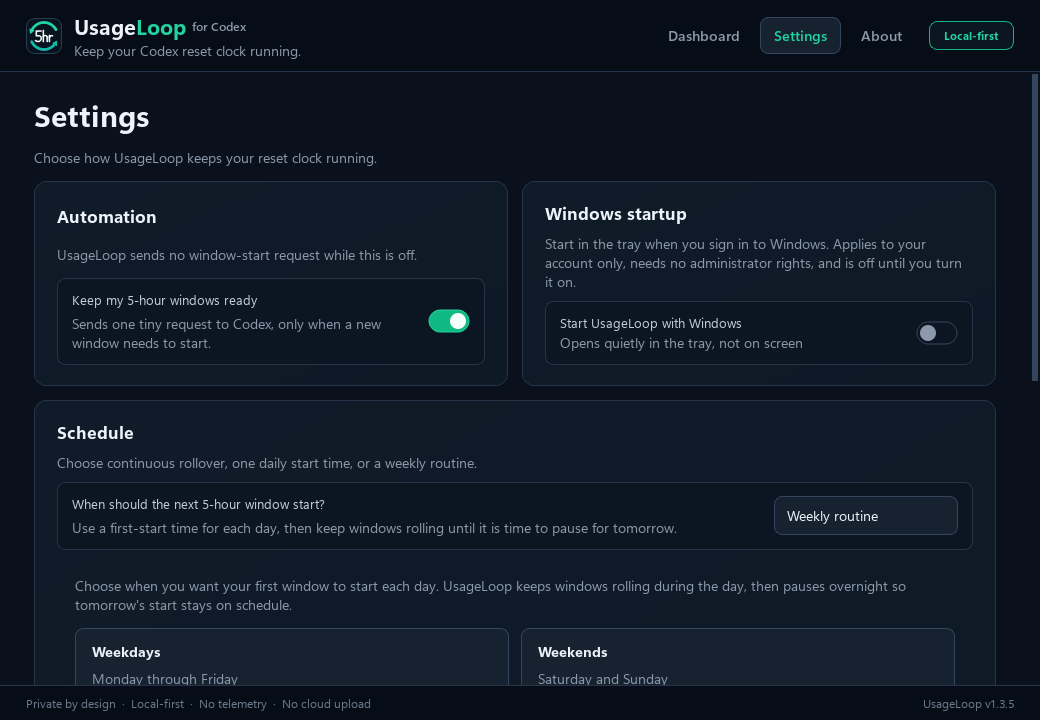
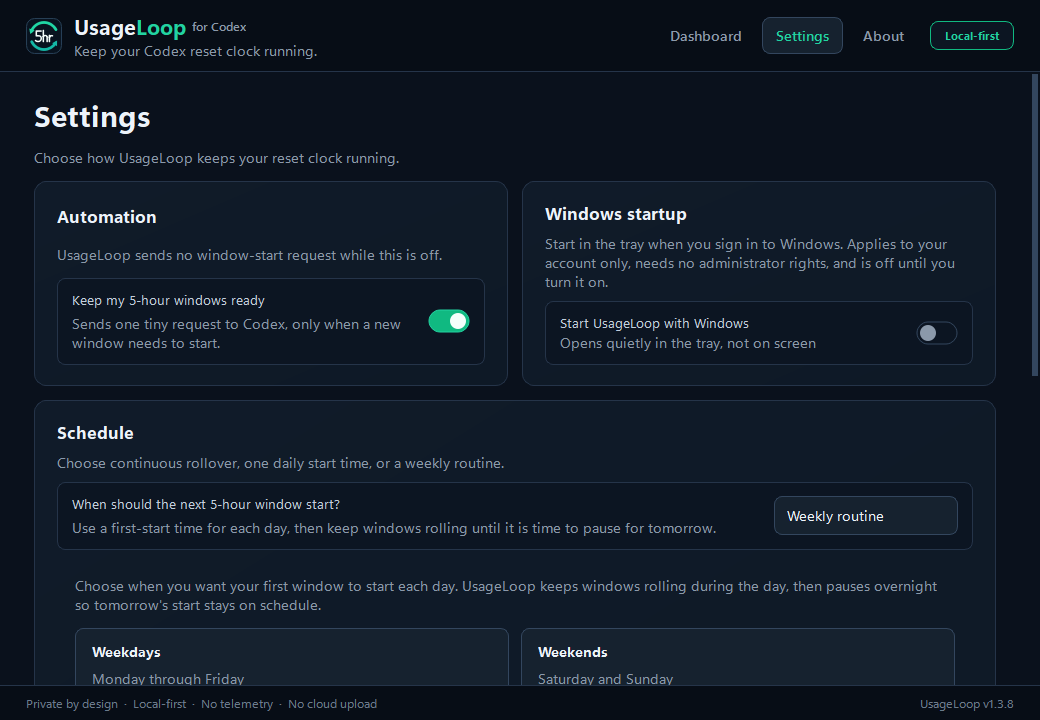
Clarify UsageLoop first-run and next-action presentation for 1.3.8

diff --git a/src/sentinel/presentation.py b/src/sentinel/presentation.py
@@ -48,6 +48,13 @@ def operational_presentation(
                     "Resumes " + _absolute_time(settings.automation_paused_until),
                     tray="Paused until " + _absolute_time(settings.automation_paused_until))
     if state is None:
+        if not settings.automation_enabled and not settings.first_run_complete:
+            return make("first_run", "Set up your routine",
+                        "Choose when your day starts in Settings, then turn on Automation. Nothing is sent to Codex until you do.",
+                        "info", "GET STARTED", "No clock running yet",
+                        "Choose a start time, then turn on Automation.",
+                        "Choose your start time in Settings, then turn on Automation",
+                        tray="Set up your routine")
         return make("first_run", "Waiting for Codex status",
                     "UsageLoop has not checked Codex yet.", "info", "NOT CHECKED",
                     "No reset clock verified yet", "Sync usage to read the current window.",
@@ -64,6 +71,17 @@ def operational_presentation(
                     "info", "CHECKING CONNECTION", "Checking Codex",
                     "Compatibility is being checked without sending a turn.",
                     "Wait for the read-only check.", tray="Checking Codex")
+    if (not settings.automation_enabled and not settings.first_run_complete
+            and state.provider_id not in settings.checked_runtime_identities
+            and state.usage_checked_at is None and state.last_verified_at is None
+            and state.reset_at is None
+            and state.status != "Needs attention"):
+        return make("first_run", "Set up your routine",
+                    "Choose when your day starts in Settings, then turn on Automation. Nothing is sent to Codex until you do.",
+                    "info", "GET STARTED", "No clock running yet",
+                    "Choose a start time, then turn on Automation.",
+                    "Choose your start time in Settings, then turn on Automation",
+                    tray="Set up your routine")
     if (state.compatibility_next_retry_at is None and
             (state.status == "Needs attention" or not state.automation_supported
              or (settings.checked_runtime_identities.get(state.provider_id) == state.runtime_identity
@@ -126,18 +144,21 @@ def operational_presentation(
                     "warning", "NEEDS ATTENTION", "Usage unclear",
                     "Sync usage to read the current state.",
                     "Start blocked until quota evidence is clear.", tray="Needs attention")
-    if state.reset_at is not None and state.reset_at > now and (state.quota_state == "ANCHORED" or state.status == "Ready"):
+    if (state.reset_at is not None and state.reset_at > now
+            and state.quota_state != "UNANCHORED"
+            and (state.quota_state == "ANCHORED" or state.status == "Ready")):
         return make("active_window", "Everything is set",
                     "The countdown runs locally. UsageLoop follows your saved schedule after this window ends.",
                     "success", "CLOCK RUNNING", format_countdown(state.reset_at, now),
                     "Codex confirmed this reset time. No Codex traffic is needed for the countdown.",
-                    "Current window stays active until it resets", tray=format_countdown(state.reset_at, now) + " left")
+                    _active_window_next_action(settings, state.reset_at, now),
+                    tray=format_countdown(state.reset_at, now) + " left")
     if (state.quota_state == "UNANCHORED" and state.last_verified_at is None
             and state.weekly_used_percent is not None
             and (state.reset_at is None or state.reset_at > now)):
         return make("first_window", "Ready when you choose to start",
                     "Starting a first window requires your approval.", "info",
-                    "FIRST START", "No reset clock verified yet",
+                    "FIRST START", "No clock running yet",
                     "The first start uses a guarded Codex request after you approve it.",
                     "First window starts only when you ask", manual=True,
                     tray="Waiting for first window")
@@ -179,6 +200,25 @@ def operational_presentation(
                 "info", "NOT CHECKED", "No reset clock verified yet",
                 "Read-only usage evidence is needed before a start.",
                 "Sync usage to check the current window", tray="Waiting for Codex status")
+
+
+def _active_window_next_action(settings: AppSettings, reset_at: float, now: float) -> str:
+    try:
+        summary = schedule_summary(
+            settings.schedule_mode, boundary_reset_at=reset_at, now=now,
+            hour=settings.daily_start_hour, minute=settings.daily_start_minute,
+            weekly_times=settings.weekly_start_times,
+        )
+    except (OSError, OverflowError, ValueError):
+        return "Next start waits for this window to reset and a usable schedule"
+    target = _time(summary.next_action_at, now)
+    if target == "when the schedule allows":
+        return "Next start waits for this window to reset and a usable schedule"
+    if summary.phase == "overnight_pause":
+        return "After this window: overnight pause · first start " + target
+    if summary.phase == "scheduled_first_start":
+        return "Next start " + target
+    return "Next start around " + target + ", after this window resets"
 
 
 def _time(timestamp: float | None, now: float) -> str:

diff --git a/tests/test_reliability.py b/tests/test_reliability.py
@@ -243,6 +243,48 @@ class PresentationTests(unittest.TestCase):
         return replace(ProviderViewState.waiting("codex", "Codex", installed=True,
                                                 runtime_identity="runtime:1"), **changes)
 
+    def test_active_window_next_action_uses_existing_schedule(self):
+        now = datetime(2026, 9, 23, 10).timestamp()
+        active = self.state(status="Ready", quota_state="ANCHORED",
+                            reset_at=int(datetime(2026, 9, 23, 15).timestamp()),
+                            last_verified_at=now - 60)
+        weekly = self.settings(schedule_mode="weekly", weekly_start_times=((4, 0),) * 7)
+        self.assertEqual(
+            "Next start around today at 3:01 PM, after this window resets",
+            operational_presentation(weekly, active, now=now).next_action,
+        )
+        evening = replace(active, reset_at=int(datetime(2026, 9, 23, 23, 30).timestamp()))
+        self.assertEqual(
+            "After this window: overnight pause · first start tomorrow at 4:00 AM",
+            operational_presentation(weekly, evening,
+                                     now=datetime(2026, 9, 23, 20).timestamp()).next_action,
+        )
+        daily = self.settings(schedule_mode="daily", daily_start_hour=4,
+                              daily_start_minute=0)
+        self.assertEqual(
+            "Next start tomorrow at 4:00 AM",
+            operational_presentation(daily, active, now=now).next_action,
+        )
+        continuous = self.settings(schedule_mode="continuous")
+        self.assertEqual(
+            "Next start around today at 3:01 PM, after this window resets",
+            operational_presentation(continuous, active, now=now).next_action,
+        )
+        unavailable = self.settings(schedule_mode="weekly", weekly_start_times=None)
+        self.assertIn("usable schedule",
+                      operational_presentation(unavailable, active, now=now).next_action)
+
+    def test_unanchored_estimate_is_not_a_confirmed_active_window(self):
+        result = operational_presentation(
+            self.settings(), self.state(status="Ready", quota_state="UNANCHORED",
+                                        reset_at=int(self.NOW + 18000),
+                                        weekly_used_percent=20, usage_checked_at=self.NOW),
+            now=self.NOW,
+        )
+        self.assertEqual("first_window", result.kind)
+        self.assertEqual("No clock running yet", result.card_headline)
+        self.assertNotIn("resets", result.next_action.lower())
+
     def test_normal_daily_wait_and_weekly_pause_have_no_alarm_or_manual_start(self):
         daily = self.state(reset_at=int(datetime(2026, 9, 23, 5).timestamp()),
                            quota_state="UNANCHORED", usage_checked_at=self.NOW,

diff --git a/src/sentinel/desktop.py b/src/sentinel/desktop.py
@@ -990,7 +990,10 @@ class MainWindow(QMainWindow):
             "info" if paused else ("success" if enabled else "neutral"),
         )
         pause_button = self.schedule_card.pause_button
-        pause_button.setVisible(paused or self.controller.settings.schedule_mode in {DAILY, WEEKLY})
+        pause_button.setVisible(
+            paused or (self.controller.settings.automation_enabled
+                       and self.controller.settings.schedule_mode in {DAILY, WEEKLY})
+        )
         pause_button.setText("Resume automation" if paused else "Pause until tomorrow")
         pause_button.setEnabled(enabled and not self.active_operations)
         target = self.controller.settings.tomorrow_first_start(current)
@@ -1024,7 +1027,10 @@ class MainWindow(QMainWindow):
                 not codex.automation_supported
                 or self.controller.settings.compatible_runtime_identities.get("codex") != codex.runtime_identity
             )
-            self.recheck_dashboard_button.setVisible(codex.installed and needs_check)
+            self.recheck_dashboard_button.setVisible(
+                codex.installed and needs_check
+                and "codex" in self.controller.settings.checked_runtime_identities
+            )
             for button in (self.recheck_button, self.recheck_dashboard_button):
                 button.setEnabled(codex.installed and not self.active_operations and self.controller.persistence_error is None)
                 button.setText("Checking Codex…" if checking else "Recheck Codex compatibility")
@@ -1637,10 +1643,10 @@ class MainWindow(QMainWindow):
     def _confirm_bootstrap(self) -> bool:
         answer = QMessageBox.question(
             self,
-            "Start continuous loop now?",
+            "Start my first window now?",
             "UsageLoop first checks quota without spending it. Only if no window is running and "
             "the safety checks pass will it send one small request and verify the reset clock. "
-            "Your saved Continuous or Weekly Routine schedule then takes over. An unclear start is not retried.",
+            "Your chosen routine then takes over. An unclear start is not retried.",
             QMessageBox.StandardButton.Yes | QMessageBox.StandardButton.Cancel,
             QMessageBox.StandardButton.Yes,
         )

diff --git a/tests/test_desktop.py b/tests/test_desktop.py
@@ -325,11 +325,28 @@ class DesktopTests(unittest.TestCase):
         # A freshly detected provider has never been checked, so it must not
         # borrow the language of a window that is actually counting down.
         self.assertEqual(
-            "AUTOMATION OFF", window.provider_cards["codex"].status_label.text()
+            "GET STARTED", window.provider_cards["codex"].status_label.text()
         )
+        self.assertEqual("Set up your routine", window.overall_title.text())
+        self.assertIn("choose when your day starts", window.overall_detail.text().lower())
+        self.assertNotIn("saved routine", window.overall_detail.text().lower())
+        self.assertTrue(window.recheck_dashboard_button.isHidden())
         self.assertLessEqual(window.minimumSizeHint().width(), 1366)
         self.assertLessEqual(window.minimumSizeHint().height(), 768)
         self.assertEqual(3, window.findChild(QStackedWidget).count())
+
+    def test_dashboard_recheck_appears_after_a_failed_check(self):
+        state = ProviderViewState.waiting(
+            "codex", "Codex", installed=True, runtime_identity="runtime:1"
+        )
+        window, provider = self.make_window(state)
+        self.assertTrue(window.recheck_dashboard_button.isHidden())
+        window.controller.apply_compatibility(
+            "codex", CompatibilityResult(False, "Needs attention", "Sign in to Codex.", "runtime:1")
+        )
+        window.refresh_clock()
+        self.assertFalse(window.recheck_dashboard_button.isHidden())
+        self.assertEqual(0, provider.action_calls)
         self.assertEqual(
             ["Dashboard", "Settings", "About"],
             [button.text() for button in window.nav_buttons],
@@ -892,8 +909,8 @@ class DesktopTests(unittest.TestCase):
 
         window.refresh_clock(now=now)
 
-        self.assertIn("Current window", window.schedule_card.next_label.text())
-        self.assertIn("until it resets", window.schedule_card.next_label.text())
+        self.assertIn("Next start around", window.schedule_card.next_label.text())
+        self.assertIn("after this window resets", window.schedule_card.next_label.text())
         self.assertNotIn("verified", window.schedule_card.next_label.text().lower())
 
     def test_weekly_pause_starts_no_worker_and_due_rollover_starts_at_most_one(self):

diff --git a/scripts/capture-ui-screenshots.py b/scripts/capture-ui-screenshots.py
@@ -186,6 +186,14 @@ def main() -> int:
         window.resize(1600, 900)
         save(window, args.output / "dashboard.png", app)
 
+        evening_now = datetime(2030, 1, 15, 20, 0).timestamp()
+        evening_reset = int(datetime(2030, 1, 15, 23, 30).timestamp())
+        controller.update_provider_state(replace(codex, reset_at=evening_reset))
+        window.refresh_clock(now=evening_now)
+        save(window, args.output / "dashboard-weekly-evening.png", app)
+        controller.update_provider_state(codex)
+        window.refresh_clock(now=now)
+
         window.resize(1040, 720)
         window.show_page(1)
         save(window, args.output / "settings.png", app)
@@ -268,11 +276,29 @@ def main() -> int:
                 runtime_identity=codex.runtime_identity,
             )
         )
+        controller._save_settings(replace(
+            controller.settings, first_run_complete=False,
+            checked_runtime_identities={}, compatible_runtime_identities={},
+            schedule_mode="continuous",
+            weekly_start_times=None,
+        ))
+        provider.history = SafeHistory(Path(directory) / "first-run-history.jsonl")
         window.refresh_clock(now=now)
         window.resize(1040, 720)
         save(window, args.output / "dashboard-first-run.png", app)
         window.resize(1920, 1080)
         save(window, args.output / "dashboard-first-run-1920x1080.png", app)
+        controller.set_automation_enabled(True)
+        controller.apply_compatibility("codex", CompatibilityResult(
+            True, "Ready", "Compatibility confirmed.", codex.runtime_identity,
+        ))
+        controller.update_provider_state(replace(
+            codex, quota_state="UNANCHORED", last_verified_at=None,
+            usage_checked_at=now, reset_at=int(now + 5 * 3600),
+        ))
+        window.resize(1366, 768)
+        window.refresh_clock(now=now)
+        save(window, args.output / "dashboard-unanchored.png", app)
         window.close()
     return 0
 

diff --git a/src/sentinel/ui_components.py b/src/sentinel/ui_components.py
@@ -180,7 +180,9 @@ def present_provider_state(
             usage, weekly, action,
         )
 
-    reset = _reset_copy(state.reset_at, now=now)
+    unanchored_first_window = state.quota_state == "UNANCHORED" and state.last_verified_at is None
+    reset = ("Reset time not verified" if unanchored_first_window
+             else _reset_copy(state.reset_at, now=now))
     if state.last_verified_at is not None:
         verified = f"Last synced {_friendly_time(state.last_verified_at, now=now)}"
     elif state.usage_checked_at is not None:
@@ -212,11 +214,11 @@ def present_provider_state(
             "One minimal Codex request is in progress. It will not be retried automatically.",
             verified, usage, weekly, action,
         )
-    if state.reset_at is None:
+    if state.reset_at is None or unanchored_first_window:
         return ProviderPresentation(
             "WAITING FOR RESET" if automation_enabled else "AUTOMATION OFF",
             "info" if automation_enabled else "neutral",
-            "No reset clock verified yet", reset,
+            "No clock running yet" if unanchored_first_window else "No reset clock verified yet", reset,
             (
                 "UsageLoop will check Codex and start the first window only after every safety gate passes."
                 if automation_enabled
@@ -313,7 +315,7 @@ class ProviderCard(QFrame):
         sync_row.addWidget(self.sync_button, 0)
         sync_row.addWidget(self.sync_status, 1)
         layout.addLayout(sync_row)
-        self.action_button = QPushButton("Start continuous loop now")
+        self.action_button = QPushButton("Start my first window now")
         self.action_button.setObjectName("primaryButton")
         self.action_button.setVisible(False)
         layout.addWidget(self.action_button, 0, Qt.AlignmentFlag.AlignLeft)

diff --git a/tests/test_manual_loop_start.py b/tests/test_manual_loop_start.py
@@ -112,8 +112,11 @@ class ManualLoopStartTests(unittest.TestCase):
     def test_unanchored_sync_offers_exactly_one_guarded_lightweight_start(self):
         self.assertEqual("UNANCHORED", self.state.quota_state)
         self.assertGreater(self.state.reset_at, self.now)
-        self.assertEqual("Start continuous loop now", self.button.text())
+        self.assertEqual("Start my first window now", self.button.text())
         self.assertFalse(self.button.isHidden())
+        card = self.window.provider_cards["codex"]
+        self.assertEqual("No clock running yet", card.countdown_label.text())
+        self.assertEqual("Reset time not verified", card.reset_label.text())
         settings = self.controller.settings
         reads = self.client.read_calls
         self.click_start()
@@ -183,8 +186,13 @@ class ManualLoopStartTests(unittest.TestCase):
                 self.assertEqual(kind, self.state.quota_state)
                 self.assertEqual(used, self.state.used_percent)
                 self.assertGreater(self.state.reset_at, self.now)
-                self.assertIn("Resets", present_provider_state(self.state,
-                    now=self.now, automation_enabled=True).reset)
+                reset_copy = present_provider_state(
+                    self.state, now=self.now, automation_enabled=True
+                ).reset
+                if kind == "UNANCHORED":
+                    self.assertEqual("Reset time not verified", reset_copy)
+                else:
+                    self.assertIn("Resets", reset_copy)
         self.assertEqual(0, self.client.model_calls)
         self.assertEqual(0, self.client.thread_calls)
         self.assertEqual(0, self.client.turn_calls)

diff --git a/src/sentinel/product.py b/src/sentinel/product.py
@@ -106,7 +106,7 @@ class ProductMetadata:
 PRODUCT = ProductMetadata(
     display_name="UsageLoop",
     tagline="Keep your Codex reset clock running.",
-    version="1.3.7",
+    version="1.3.8",
     github_owner="benthompsondev",
     github_repo="usageloop",
     executable_name="UsageLoop.exe",

diff --git a/README.md b/README.md
@@ -284,7 +284,7 @@ weekly snapshots. It never selects a model or starts a Codex turn.
    its own first-start time: set the
    weekday and weekend times, then check the **Next routine** card before you
    leave.
-4. On a true first run, choose **Start continuous loop now**. This explicit
+4. If no window is running yet, choose **Start my first window now**. This explicit
    action uses the same evidence and weekly checks as an automatic start.
 5. Leave UsageLoop in the tray. Automation and start at sign-in stay off until
    you enable them.
